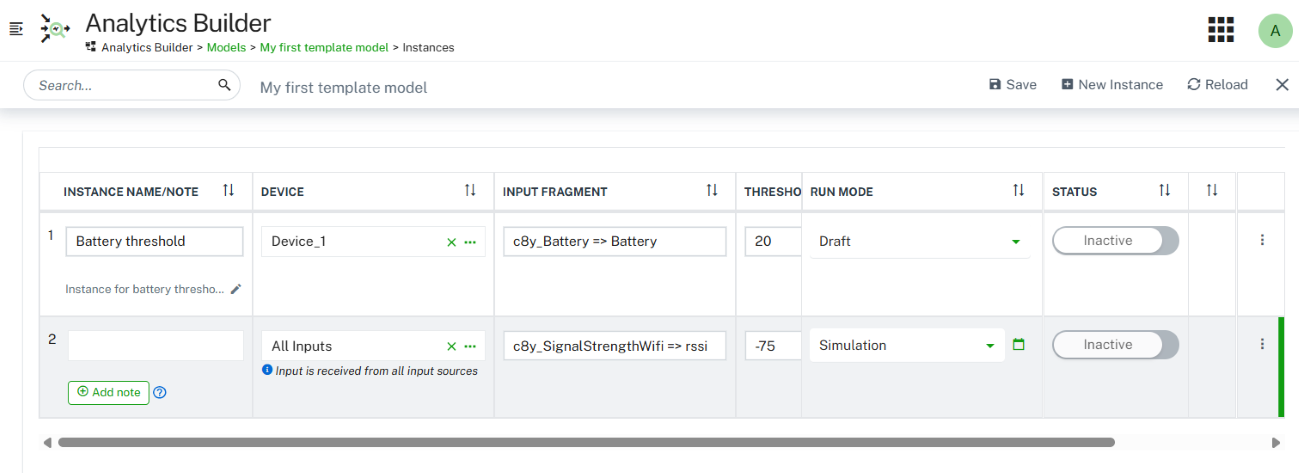
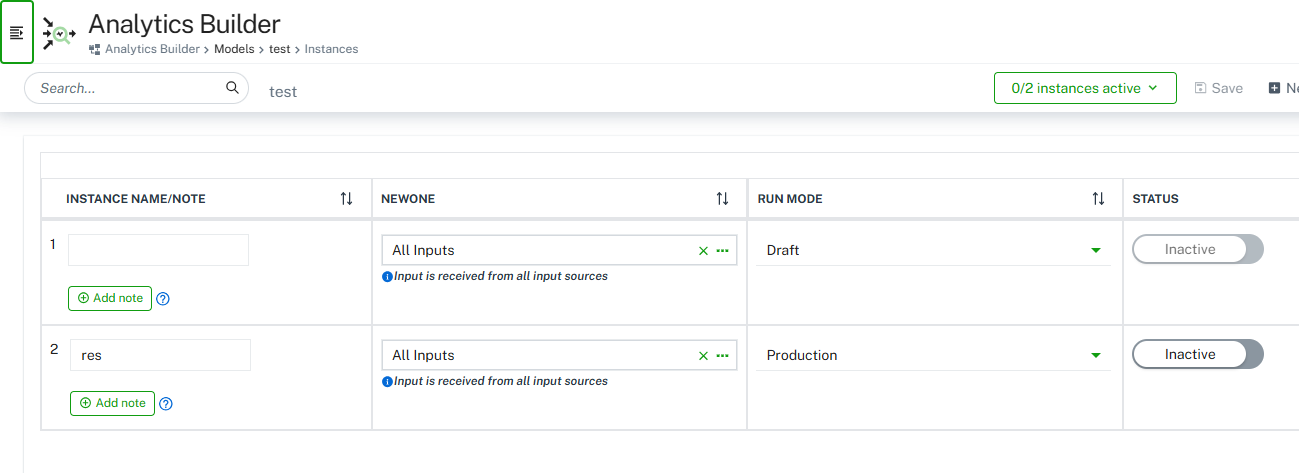
Document bulk activation and deactivation of template model instances - PAB-5367

diff --git a/content/streaming-analytics/analytics-builder-bundle/using-the-instance-editor.md b/content/streaming-analytics/analytics-builder-bundle/using-the-instance-editor.md
@@ -24,6 +24,8 @@ A horizontal scrollbar is available if not all template parameters \(columns\) c
 
 The right side of the table shows the mode and status of each instance. You activate \(deploy\) and deactivate \(undeploy\) the instances from here. See also [Deploying an instance](/streaming-analytics/analytics-builder/#deploying-an-instance) and [Undeploying an instance](/streaming-analytics/analytics-builder/#undeploying-an-instance).
 
+If you have ADMIN permission for "CEP management", the toolbar also shows the **N/M instances active** drop-down menu, which lets you activate or deactivate all instances at once. See [Activating and deactivating all instances](/streaming-analytics/analytics-builder/#activating-and-deactivating-all-instances).
+
 Each row that is shown for an instance has an actions menu <i class="dlt-c8y-icon-menu-vertical text-muted icon-20"></i> at the very right which contains commands for managing the instance \(for example, to delete the instance\).
 
 You can control the list of instances by filtering and sorting. See [Filtering and sorting the instances](/streaming-analytics/analytics-builder/#filtering-and-sorting-the-instances) for more information.
@@ -70,6 +72,8 @@ When an instance is activated, the template parameter values, where supplied, ar
 
 Once an instance is active, you cannot modify the template parameter values or mode without deactivating the instance first. If any instances are active, then the model is read-only and cannot be modified until all instances are deactivated.
 
+To activate all instances in one step, see [Activating and deactivating all instances](/streaming-analytics/analytics-builder/#activating-and-deactivating-all-instances).
+
 #### To deploy an instance {#to-deploy-an-instance}
 
 1.  In the **Run Mode** column of the instance editor, click the drop-down menu for the instance that you want to deploy and select one of **Production**, **Test** or **Simulation**.
@@ -86,9 +90,93 @@ You can deactivate \(that is, undeploy\) each instance that is currently in prod
 
 When you undeploy an instance, the instance is stopped and no longer processes incoming data. Any state built up in the instance is lost. For simulation mode, this means that the instance is stopped before all historical data from the specified time range has been replayed.
 
+To deactivate all instances in one step, see [Activating and deactivating all instances](/streaming-analytics/analytics-builder/#activating-and-deactivating-all-instances).
+
 #### To undeploy an instance {#to-undeploy-an-instance}
 
 In the **Status** column of the instance editor, click the toggle button for the instance that you want to undeploy so that **Inactive** is then shown on the button.
+
+### Activating and deactivating all instances {#activating-and-deactivating-all-instances}
+
+For a template model, you can activate or deactivate all instances in one step instead of changing each instance separately. The commands are available from the **N/M instances active** drop-down menu, for example **3/5 instances active**, where N is the number of active instances and M is the total number of instances of the model.
+
+The drop-down menu is shown in these places:
+
+- In the toolbar of the model editor, for a saved template model.
+- In the toolbar of the instance editor, when the model has at least one instance.
+
+To use the commands, you must have ADMIN permission for "CEP management". The drop-down menu is not shown for models without template parameters. For these models, use the toggle button in the model editor or the model manager.
+
+![Instance editor with the instances drop-down menu open](/images/streaming-analytics/analytics-builder/activate-all-menu.png)
+
+The drop-down menu contains these commands:
+
+- **Activate all**. Activates the instances that are eligible, as described below.
+- **Deactivate all**. Deactivates all active instances.
+- **Go to instances table**. Opens the instance editor. This command is only shown in the model editor.
+
+The commands change only the activation state of the instances. They do not change the template parameter values, modes, or names.
+
+#### Which instances are affected {#which-instances-are-affected}
+
+**Deactivate all** deactivates every active instance, regardless of its mode.
+
+**Activate all** activates only the instances that meet all of the following conditions:
+
+- The instance is inactive and in production mode. Instances in draft, test, or simulation mode are not activated. To activate such an instance, see [Deploying an instance](/streaming-analytics/analytics-builder/#deploying-an-instance).
+- The instance has a name.
+- The instance has a value for each required template parameter.
+
+**Activate all** is available as long as the model has at least one production instance and not all instances are active. If none of the inactive instances is a production instance, the dialog box reports that there are no instances to activate. In the instance editor, the drop-down menu is disabled and shows the tooltip **There are no production instances to activate or deactivate.** when the model has no production instances.
+
+#### To activate all instances {#to-activate-all-instances}
+
+1.  In the model editor or the instance editor, click the **N/M instances active** drop-down menu and select **Activate all**.
+    Unsaved changes are saved first. In the model editor, the model is saved before the instances are activated. In the instance editor, the edited rows are saved before the instances are activated.
+
+2.  In the **Activate all instances?** dialog box, check the number of instances. The dialog box shows, for example, **3 production instances will be activated. This might take some time.**
+    Instances that are not eligible are not counted. They are listed in the result after the operation.
+
+3.  Click **Activate all** to start. To leave without changing anything, click **Cancel**.
+
+![Confirmation dialog box for activating all instances](/images/streaming-analytics/analytics-builder/activate-all-confirm.png)
+
+#### To deactivate all instances {#to-deactivate-all-instances}
+
+1.  In the model editor or the instance editor, click the **N/M instances active** drop-down menu and select **Deactivate all**.
+    In the instance editor, unsaved changes are saved first. In the model editor, nothing is saved before the instances are deactivated.
+
+2.  In the **Deactivate all instances?** dialog box, check the number of instances. The dialog box shows, for example, **2 instances will be deactivated. This might take some time.**
+
+3.  Click **Deactivate all** to start. To leave without changing anything, click **Cancel**.
+
+#### Progress, cancellation, and results {#progress-cancellation-and-results}
+
+When you open the dialog box, it first shows **Loading instances.** while the current instances are read. If they cannot be read, the dialog box shows **The instances could not be loaded.** and a **Close** button. If no instance is eligible, the dialog box skips the confirmation and goes directly to the result, which shows **There are no instances to activate.** or **There are no active instances to deactivate.**
+
+After you confirm, the instances are changed one after the other. The dialog box shows the progress, for example **Activating 2 of 5** or **Deactivating 2 of 5**. You cannot close the dialog box by clicking outside of it or by pressing the Escape key.
+
+To stop the operation, click **Cancel**. The dialog box then shows **Cancelling after the current instance.** The instance that is currently being changed is completed and no further instances are changed. Instances that were already changed stay changed. The result then shows **The operation was cancelled.**
+
+![Finished dialog box after an activation that failed, with the details shown](/images/streaming-analytics/analytics-builder/activate-all-finished.png)
+
+When the operation ends, the dialog box is titled **Finished** and shows a summary table with these rows:
+
+- **Instances**. The total number of instances.
+- **Active**. The number of active instances after the operation.
+- **Non-production**. The number of instances that are not in production mode.
+
+After an activation, the table also shows **Skipped: no name** and **Skipped: missing required parameter** when there are instances without a name or with a missing required template parameter. These rows show the number of such instances.
+
+If one or more instances could not be changed, the dialog box shows a message such as **2 of 5 instances could not be activated.** or **2 of 5 instances could not be deactivated.** When a single instance was requested and failed, the message is **The instance could not be activated.** or **The instance could not be deactivated.** Click **Show details** to list the reasons. Instances that failed for the same reason are grouped under **Affected instances (N):**. A group shows up to 10 instance names, followed by **and N more** if there are more. If the server gave no reason, the dialog box shows **No reason was given.** Click **Hide details** to collapse the list.
+
+Click **Close** to close the dialog box. The counts in the drop-down menu are then updated. In the instance editor, the table is reloaded.
+
+#### Editing while instances are active {#editing-while-instances-are-active}
+
+If at least one instance of a template model is active, the model is read-only. The toolbar of the model editor then shows **Editing is disabled**. Use **Deactivate all** to make the model editable again.
+
+In the instance editor, the **N/M instances active** drop-down menu is also disabled while the instances are loading or being saved.
 
 ### Filtering and sorting the instances {#filtering-and-sorting-the-instances}
 

diff --git a/content/streaming-analytics/analytics-builder-bundle/using-the-model-editor.md b/content/streaming-analytics/analytics-builder-bundle/using-the-model-editor.md
@@ -28,6 +28,12 @@ For a model without template parameters (other than a sample model), the toolbar
 - A toggle button showing **Active** or **Inactive**. Use it to activate or deactivate the model without leaving the model editor. See [Activating a model from the model editor](/streaming-analytics/analytics-builder/#activating-a-model-from-the-model-editor).
 - The logs icon <i class="dlt-c8y-icon-logs icon-20"></i>, which shows or hides the log messages of the model below the canvas. See [Viewing the logs of a model](/streaming-analytics/analytics-builder/#viewing-the-logs-of-a-model).
 
+For a saved template model, the toolbar shows the following instead:
+
+- The **N/M instances active** drop-down menu, for example **3/5 instances active**. Use it to activate or deactivate all instances of the model, or to go to the instance editor. It is only shown if you have ADMIN permission for "CEP management". See [Activating and deactivating all instances](/streaming-analytics/analytics-builder/#activating-and-deactivating-all-instances).
+- The text **Editing is disabled** when at least one instance is active. The model is read-only until you deactivate all instances.
+- The logs icon <i class="dlt-c8y-icon-logs icon-20"></i>, as described above.
+
 {{< c8y-admon-caution>}}
 Changes are only saved when you click the save icon <i class="dlt-c8y-icon-save icon-20"></i>.
 See also [Saving a model](/streaming-analytics/analytics-builder/#saving-a-model). The editor warns you if you attempt to navigate away from the editor and there are unsaved changes. However, you should always ensure that your changes are saved before disconnecting the browser from the network or suspending a laptop.
@@ -94,7 +100,7 @@ The save icon <i class="dlt-c8y-icon-save icon-20"></i> is only enabled when cha
 
 You can activate (deploy) and deactivate a model without leaving the model editor. This lets you try out a change, check the result in the logs of the model, and go back to editing, all in one place.
 
-This is only possible for models without template parameters. To activate the instances of a template model, use the instance editor. See [Deploying an instance](/streaming-analytics/analytics-builder/#deploying-an-instance).
+This is only possible for models without template parameters. To activate the instances of a template model, use the instance editor. See [Deploying an instance](/streaming-analytics/analytics-builder/#deploying-an-instance). To activate or deactivate all instances of a template model at once, you can also use the **N/M instances active** drop-down menu. See [Activating and deactivating all instances](/streaming-analytics/analytics-builder/#activating-and-deactivating-all-instances).
 
 The model is activated in the mode that is set for it in the model manager. A model in draft mode cannot be activated, so the toggle button is disabled for such a model. The toggle button is also disabled until the model has a name. Before you activate a model in simulation mode, define its time range in the model manager. See [Simulation parameters](/streaming-analytics/analytics-builder/#simulation-parameters).
 

diff --git a/content/change-logs/analytics/apama-in-c8y-20261112-Activate-or-deactivate-all-instances-of-a-template-model.md b/content/change-logs/analytics/apama-in-c8y-20261112-Activate-or-deactivate-all-instances-of-a-template-model.md
@@ -1,0 +1,29 @@
+---
+date: '2026-11-12'
+title: Activate or deactivate all instances of a template model in Analytics Builder
+change_type:
+  - value: change-QHu1GdukP
+    label: Feature
+product_area: Analytics
+component:
+  - value: component-M5-cepIIS
+    label: Streaming Analytics
+build_artifact:
+  - value: tc-KXXmo2SUR
+    label: apama-in-c8y
+ticket: PAB-5367
+version: 27.306.0
+---
+
+You can now activate or deactivate all instances of a template model in one step in Analytics Builder. Previously, you had to change the state of each instance separately in the instance editor.
+
+In the toolbar of the model editor and the instance editor, a new **N/M instances active** drop-down menu offers **Activate all** and **Deactivate all**. The menu is shown to users with ADMIN permission for "CEP management".
+
+- **Activate all** activates the inactive production instances that have a name and a value for each required template parameter. Other instances are skipped.
+- **Deactivate all** deactivates all active instances.
+- **Progress and cancellation**: A dialog box asks for confirmation, shows the progress, and lets you cancel after the current instance.
+- **Results**: When the operation ends, the dialog box shows a summary and lists the instances that could not be changed, grouped by the reason.
+
+The model editor of a template model now also shows **Editing is disabled** while at least one instance is active.
+
+For details, see [Activating and deactivating all instances](/streaming-analytics/analytics-builder/#activating-and-deactivating-all-instances).
